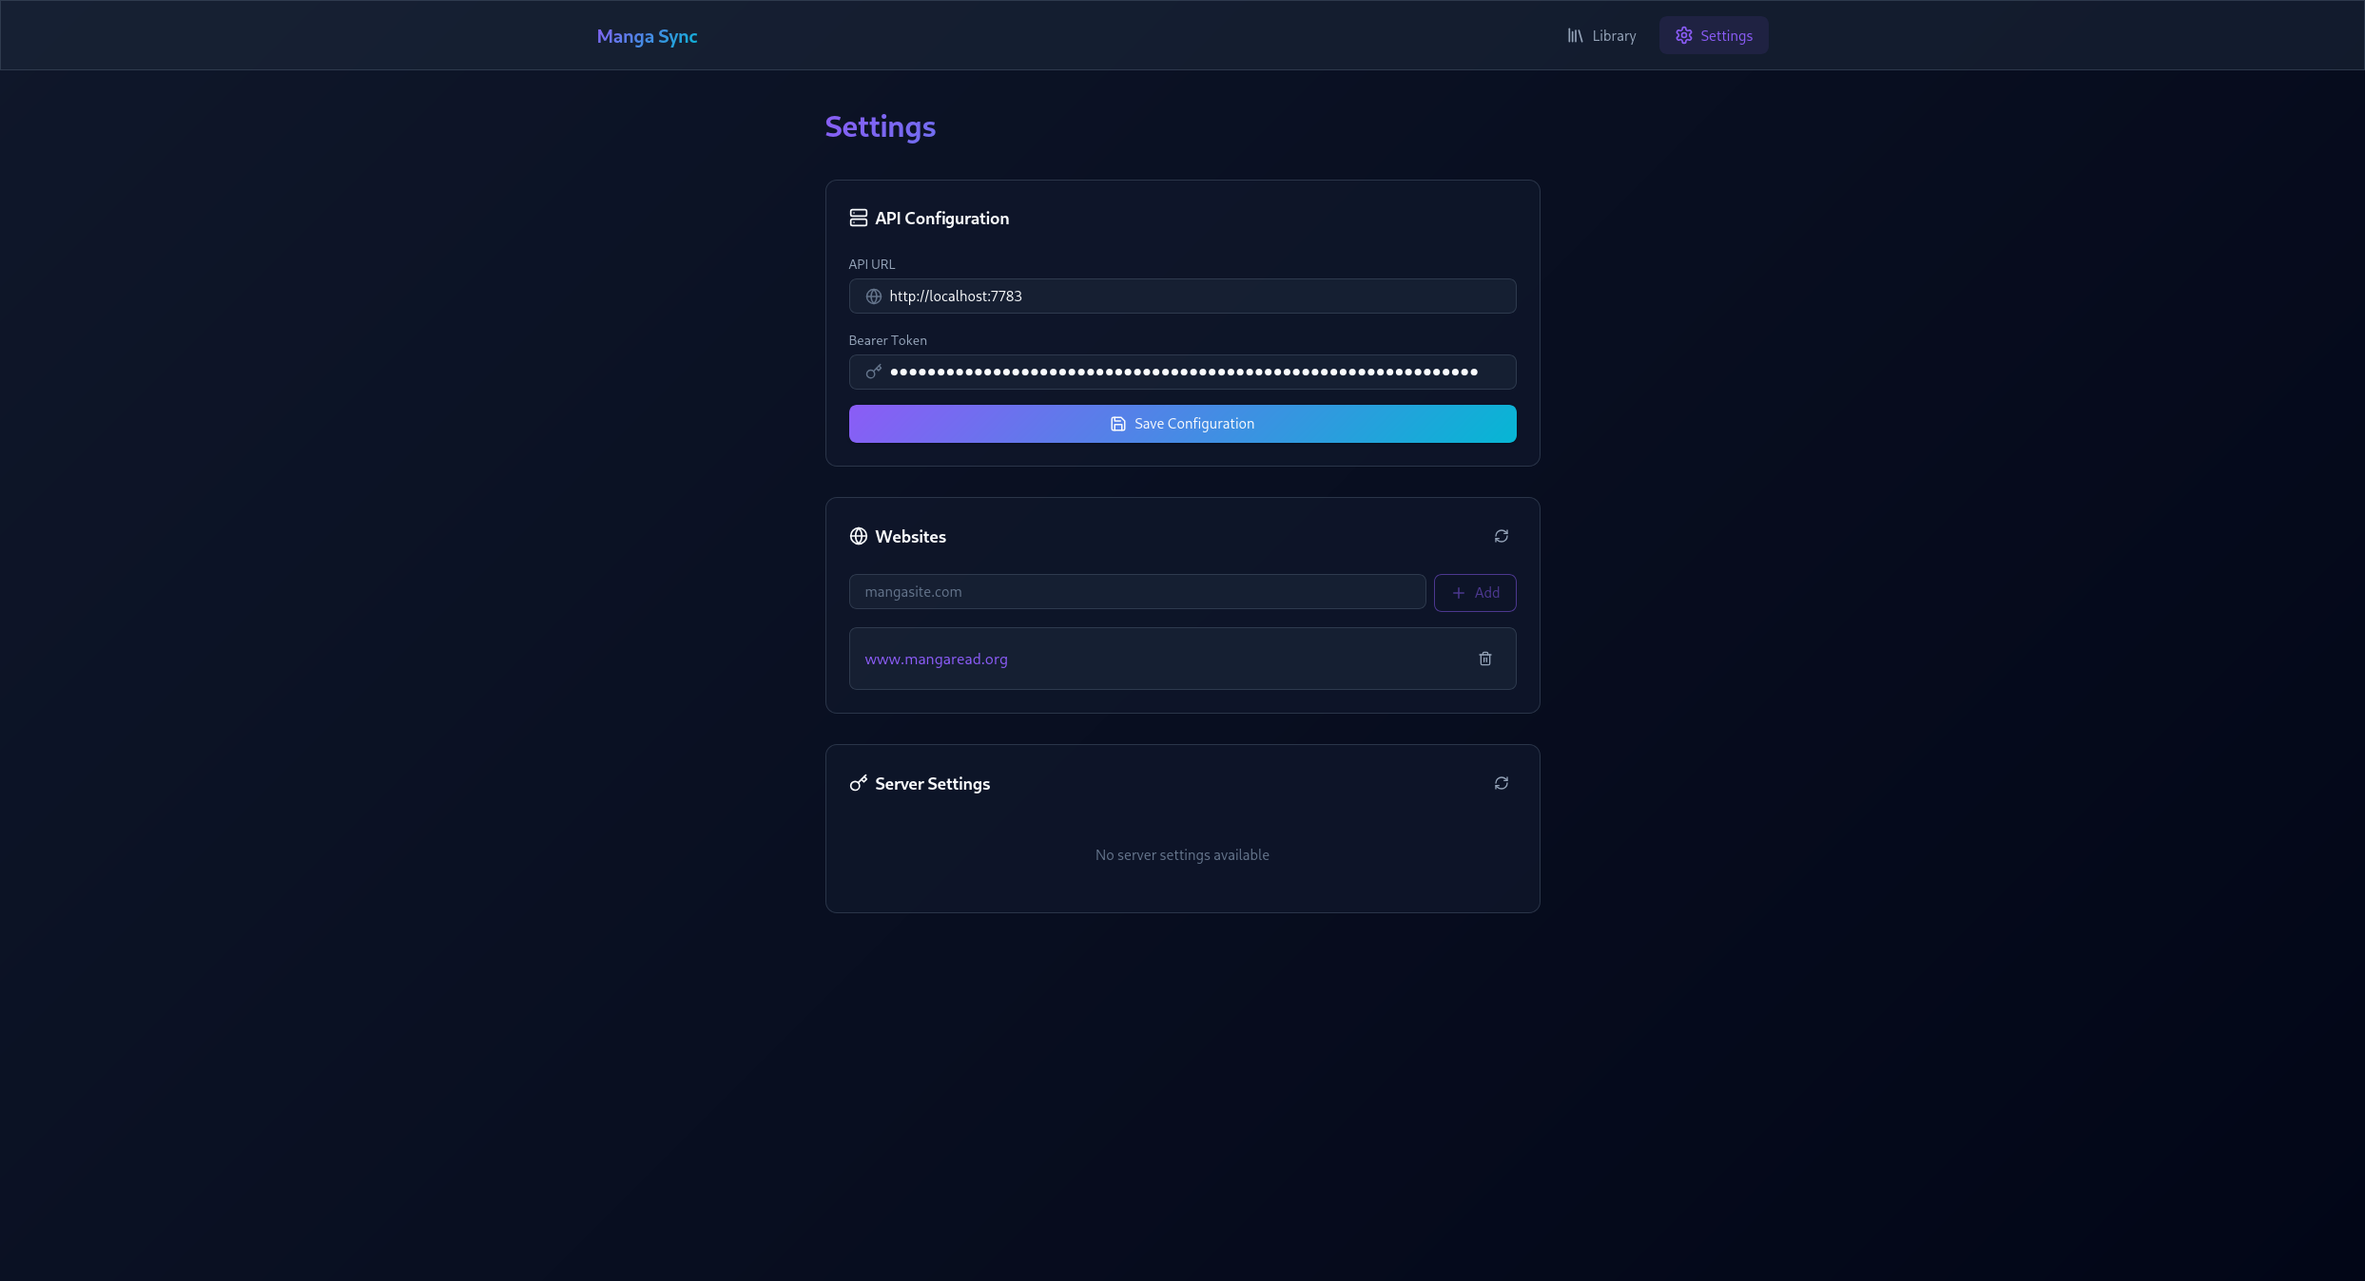
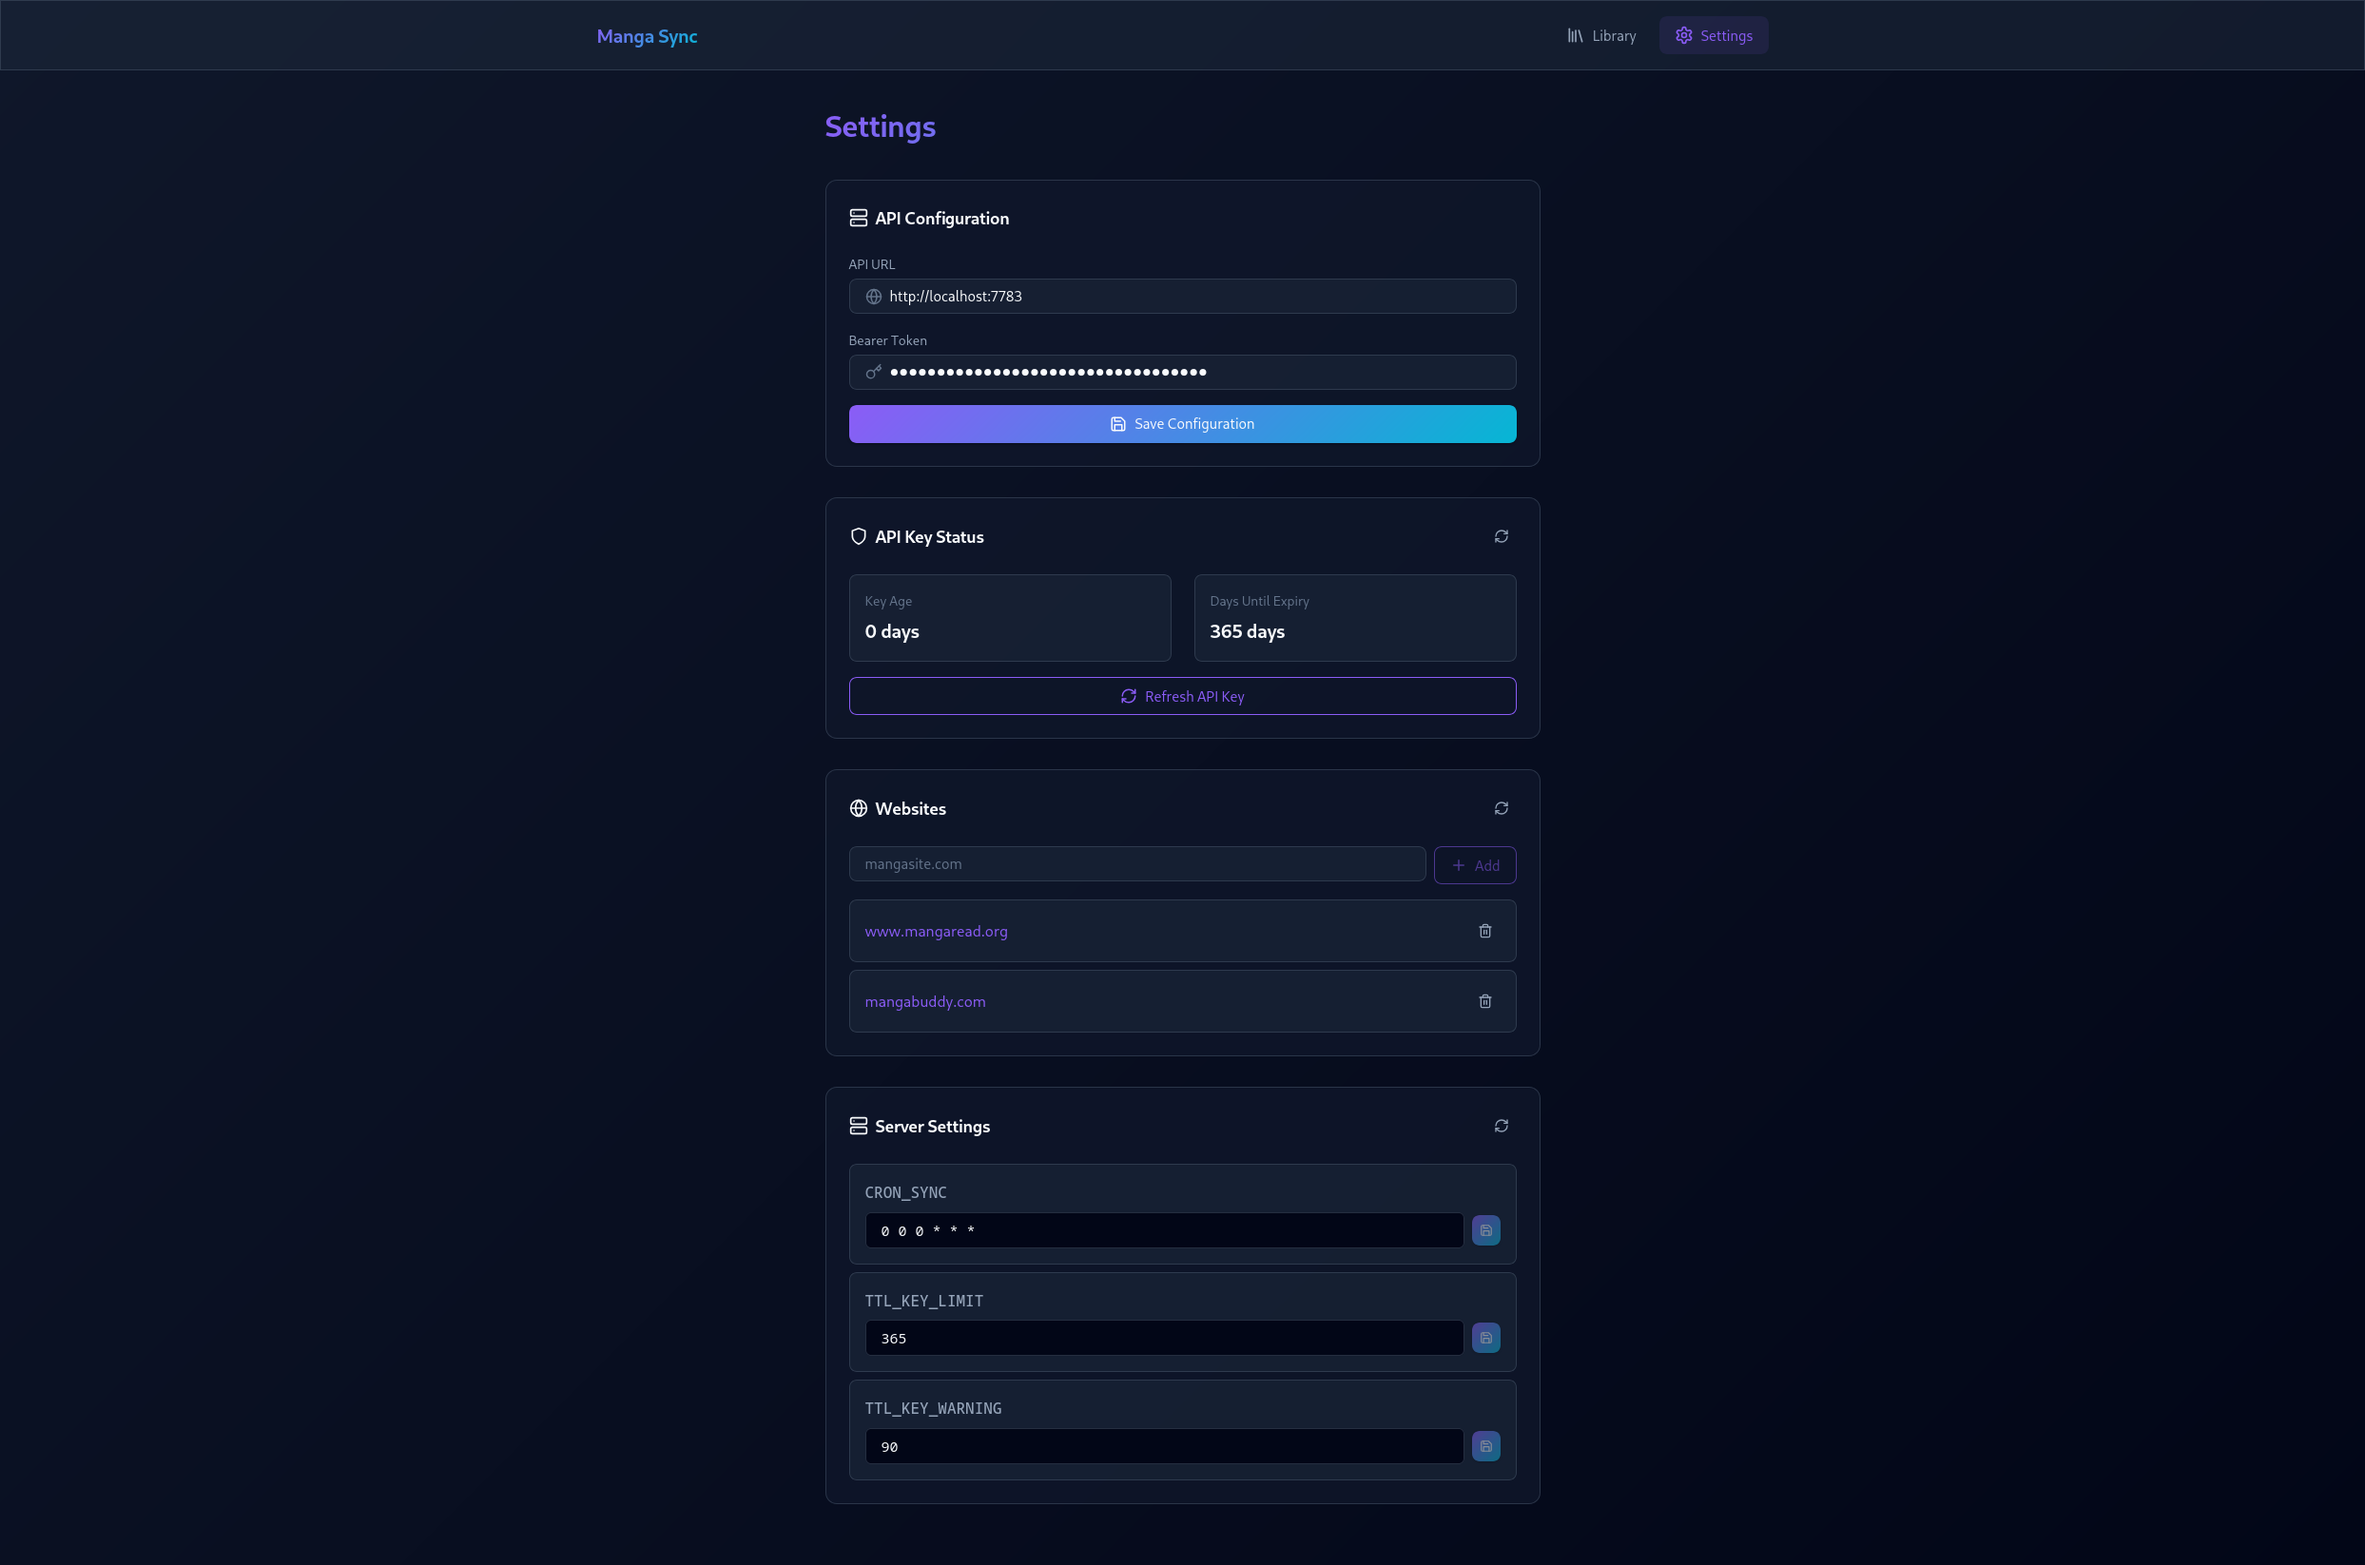
docs: add token refresh instructions with screenshots to README
- Includes steps and visuals for refreshing the bearer token in the settings page.

diff --git a/README.md b/README.md
@@ -47,6 +47,18 @@ A Firefox Web Extension for managing and syncing your manga reading progress.
 
 ![website-add-manga-form.png](screenshots/website-add-manga-form.png)
 
+### Refresh the Bearer Token
+
+1) **In the settings page** - Modal to confirm the refresh.
+
+![extension-settings-key-refresh-confirm.png](screenshots/extension-settings-key-refresh-confirm.png)
+
+2) **Result** - Modal to show the new token.
+
+![extension-settings-key-refresh-result.png](screenshots/extension-settings-key-refresh-result.png)
+
+*If the token is too old, you'll see banners that will ask you to refresh it.*
+
 ## Features
 
 - **Library Management**: View all your manga in a responsive grid layout
